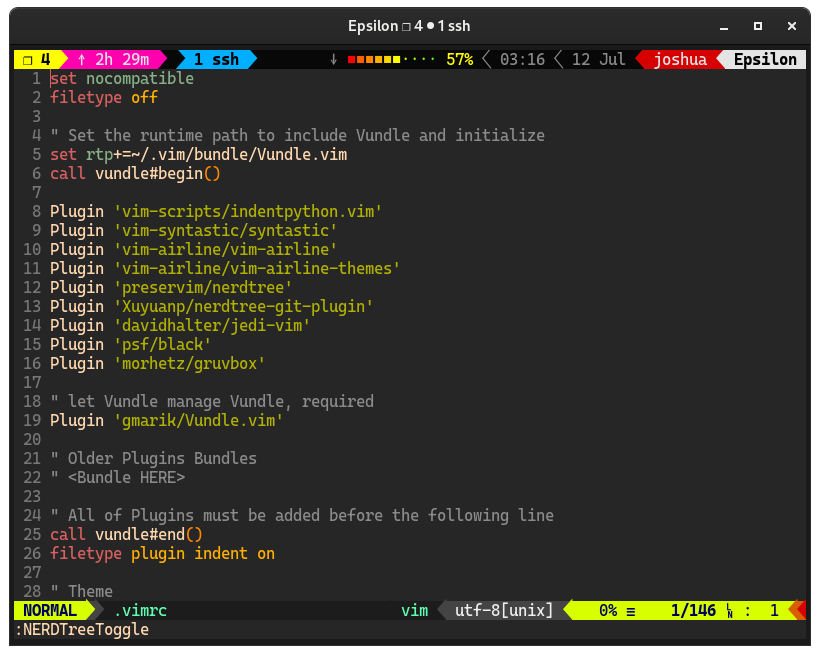
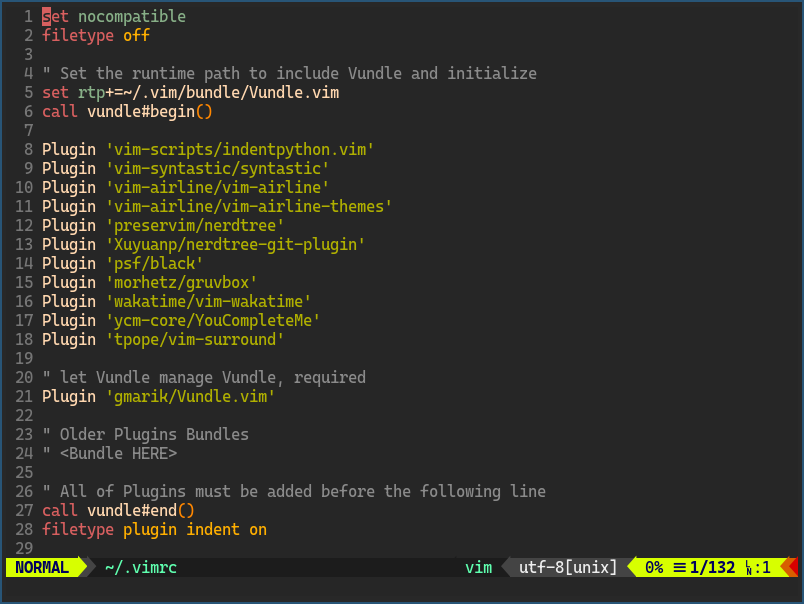
:pencil: Add i3 docs and update images

Changed region(s): [[0.0, 0.0, 1.0, 1.0], [0.5286, 0.1788, 0.653, 0.2384]]

diff --git a/README.md b/README.md
@@ -38,11 +38,9 @@ This is a series of scripts and configurations pertaining to my environment.
 
 ## Editor
 
-Main Development - VSCode.
+Visual Studio Code and Vim.
 
-I use VSCode with a series of plugins. Using this [settings sync plugin](https://marketplace.visualstudio.com/items?itemName=Shan.code-settings-sync), all my configuration are stored on this [gist](https://gist.github.com/jarulsamy/6c3ff1d6f599d703cf0fba2b050fedec).
-
-Headless - Vim
+I use VSCode with a series of plugins. Using this [settings sync plugin](https://marketplace.visualstudio.com/items?itemName=Shan.code-settings-sync), all my configuration are stored on this [gist](https://gist.github.com/jarulsamy/a1a11a59eeadf0b429b1c357c4d51238).
 
 My vim setup is optimized for Python, C/C++, and general unix configuration files.
 
@@ -53,9 +51,11 @@ This is accomplished with the following plugins:
 *   [Vim-airline](https://github.com/vim-airline/vim-airline) / [Vim-airline-themes](https://github.com/vim-airline/vim-airline-themes)
 *   [Nerdtree](https://github.com/preservim/nerdtree)
 *   [Nerdtree-git](https://github.com/Xuyuanp/nerdtree-git-plugin)
-*   [Jedi](https://github.com/davidhalter/jedi-vim)
 *   [Black](https://github.com/psf/black)
 *   [Gruvbox](https://github.com/morhetz/gruvbox)
+*   [Wakatime](https://github.com/wakatime/vim-wakatime)
+*   [YouCompleteMe](https://github.com/ycm-core/YouCompleteMe)
+*   [vim-surround](https://github.com/tpope/vim-surround)
 
 All, of course, detailed in the [vimrc](/.vimrc).
 
@@ -63,13 +63,49 @@ All, of course, detailed in the [vimrc](/.vimrc).
 
 ## Shell
 
-ZSH + Tmux = :heart:
-
-I use a heavily customized version of ZSH and Tmux (using oh-my-zsh and oh-my-tmux) to create an optimal terminal experience.
+I use a heavily customized version of ZSH using oh-my-zsh to create an optimal terminal experience.
 
 ![Terminal](/assets/neofetch.png)
 
-Tmux header features include; session counter, battery tracker, date/time, user, root warning, and hostname.
+By default, my `.zshrc` auto starts tmux on remote ssh sessions.
+
+![Shell+Tmux](/assets/shell_tmux.png)
+
+## i3
+
+I Primarily use i3 gaps as my WM on my desktop machines, usually alongside Arch.
+
+All my config files pertinent to i3 and other utilities follow the XDG configuration scheme, and therefore are in `.config`.
+
+By default, all the necessary config files should be correctly symbolically linked. However, **not all dependencies are installed by default.** This is by design, as these same scripts are often used on  headless servers.
+
+Stuff not installed by `install.sh`
+
+*   i3
+*   mpd
+*   mpc
+*   ncmpcpp
+*   polybar
+*   rofi
+*   ranger
+
+If you use Arch like me most of the dependencies are in the mainline repos:
+
+    sudo pacman -S i3-gaps mpd mpc
+
+The rest can be installed from the AUR with your favorite AUR helper:
+
+    yay -S polybar
+
+
+<img src="assets/1.png" width="804">
+
+<img src="assets/2.png" width="804">
+
+<img src="assets/3.png" width="804">
+
+
+Thanks to @adi1090x for the [polybar themes](https://github.com/adi1090x/polybar-themes).
 
 ## Keybinds
 
@@ -81,7 +117,7 @@ Here are a few of the custom keybinds I implemented.
 | `ctrl-k` | `cd ..`                       |
 | `ctrl-q` | Kill all other tmux sessions. |
 
-## Custom ZSH Functions
+## ZSH Functions
 
 I am actively developing a handful of convience scripts that I use daily.
 I'm extremely lazy and hate typing long commands.
@@ -99,9 +135,10 @@ I'm extremely lazy and hate typing long commands.
 
 > For example `chrome https://github.com/jarulsamy/.dotfiles` becomes `ghw .dotfiles` .
 
-## Custom MOTD
+## MOTD
 
 By default, `setup.sh` should also install a custom MOTD.
+> The custom MOTD is only auto-installed on Debian based distros.
 
 The text can be customized by editing the files in [motd](/motd).
 
